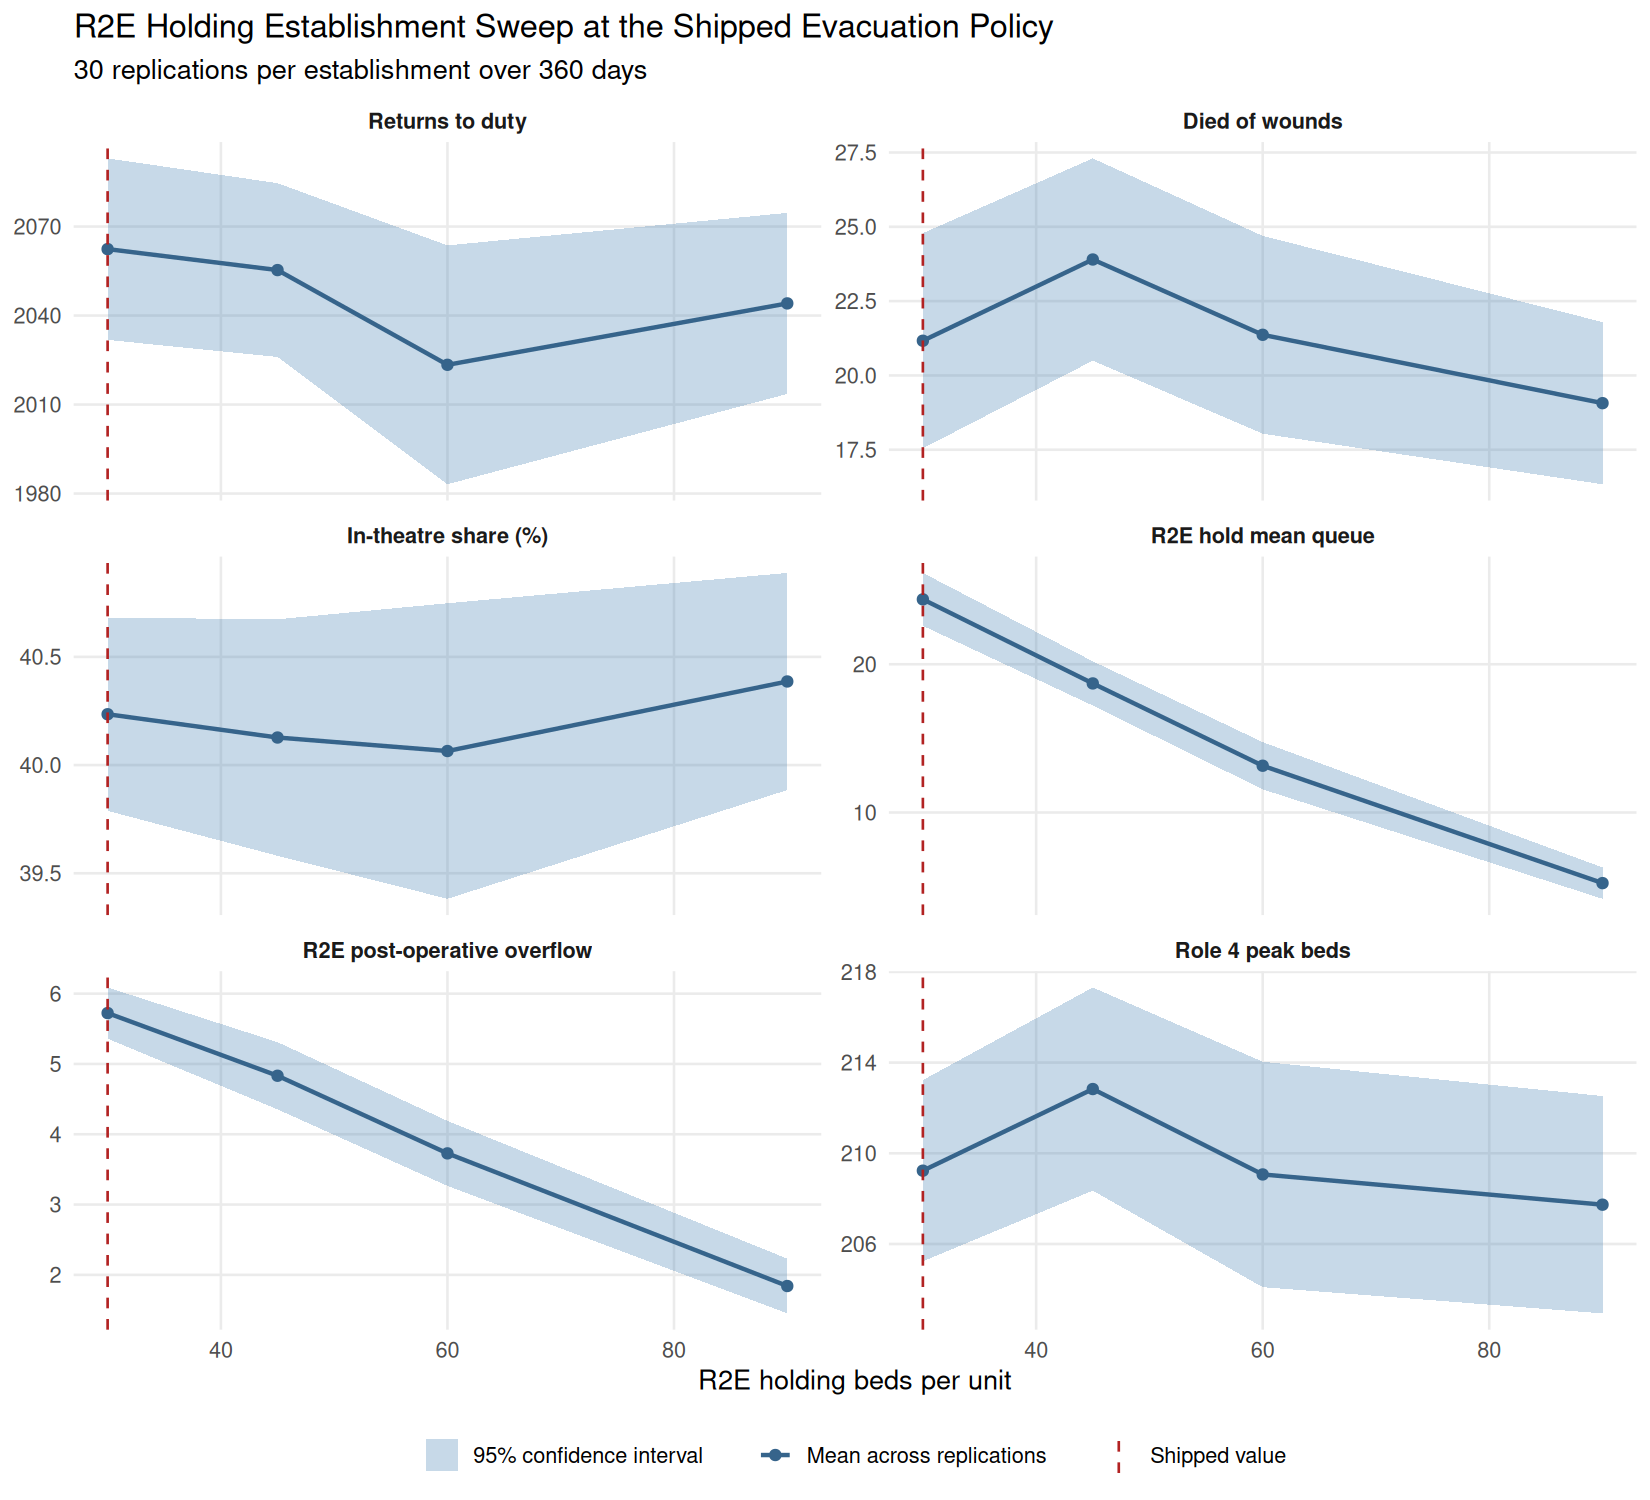
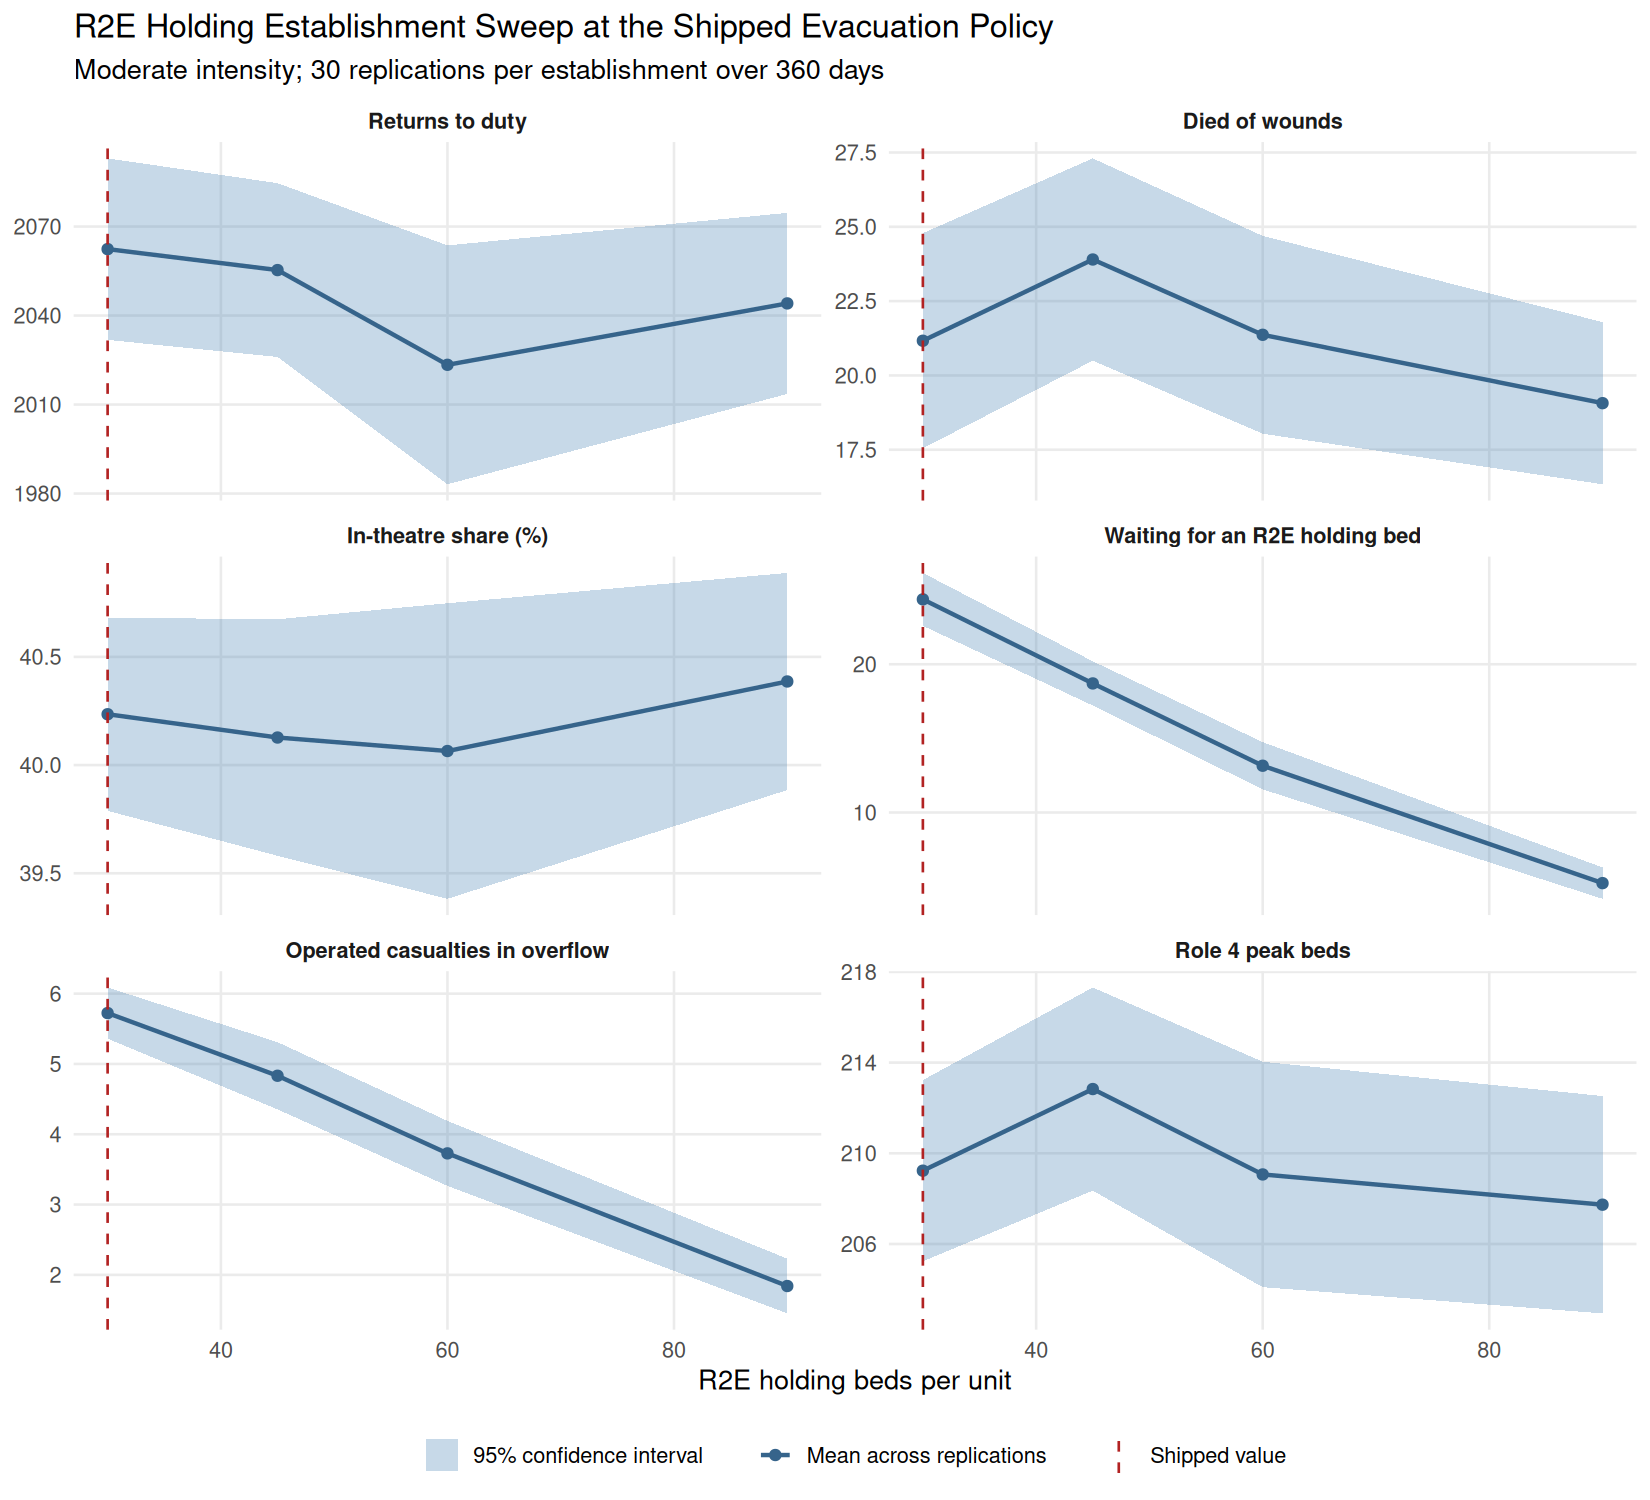
feat(issue-621): Role 4 load figure by airlift option; plain policy panel labels
role4_load.png stacks Role 4 bed-days by day 360 and after it for every
critical-care places arm at both intensities. The policy, establishment and
saturation figures name their intensity and use plain panel labels.

Claude-Session: https://claude.ai/code/session_01CkaegvR5JF22fhwZUpSGkn

Changed region(s): [[0.0309, 0.0307, 0.5255, 0.0613], [0.68, 0.3373, 0.8655, 0.368], [0.1855, 0.6133, 0.3709, 0.644]]

diff --git a/docs/Results.md b/docs/Results.md
@@ -1683,6 +1683,10 @@ The Role 4 load each arm delivers is set out below at both intensities, with the
 
 At high intensity the shipped split and interval held <!-- GEN cell:airlift_places_role4_high|Total, closing 90-day mean beds|36/54, 7 days (shipped)|mean -->219.9<!-- /GEN --> Role 4 beds over the closing 90 days, <!-- GEN cell:airlift_places_role4_high|Intensive care, closing 90-day mean beds|36/54, 7 days (shipped)|mean -->43.7<!-- /GEN --> of them intensive care, and left <!-- GEN cell:airlift_places_role4_high|Casualties awaiting airlift on day 360|36/54, 7 days (shipped)|mean -->2,858.6<!-- /GEN --> casualties awaiting airlift on day 360; Role 4 emptied <!-- GEN cell:airlift_places_role4_high|Days after day 360 until the last bed empties|36/54, 7 days (shipped)|mean -->545.3<!-- /GEN --> days after it. At 45/45 every three days the closing mean was <!-- GEN cell:airlift_places_role4_high|Total, closing 90-day mean beds|45/45, 3 days|mean -->458.7<!-- /GEN --> beds, <!-- GEN cell:airlift_places_role4_high|Intensive care, closing 90-day mean beds|45/45, 3 days|mean -->115.9<!-- /GEN --> of them intensive care, <!-- GEN cell:airlift_places_role4_high|Casualties awaiting airlift on day 360|45/45, 3 days|mean -->62.3<!-- /GEN --> casualties were awaiting airlift on day 360, and Role 4 emptied <!-- GEN cell:airlift_places_role4_high|Days after day 360 until the last bed empties|45/45, 3 days|mean -->46.0<!-- /GEN --> days after it. The bed-days occupied during and after the campaign together were <!-- GEN cell:airlift_places_role4_high|Bed-days in all|36/54, 7 days (shipped)|mean -->151,720<!-- /GEN --> at the shipped split and interval and <!-- GEN cell:airlift_places_role4_high|Bed-days in all|45/45, 3 days|mean -->163,669<!-- /GEN --> at 45/45 every three days.
 
+![Role 4 bed-days per campaign for eight critical-care place and sortie interval options at each intensity, divided into those occupied by day 360 and after it](../images/role4_load.png)
+
+Mean Role 4 bed-days per 360-day campaign for each critical-care place and sortie interval option, at moderate intensity (left) and high intensity (right), divided into the bed-days occupied by day 360 and those occupied after it while the casualties still awaiting airlift are flown out at the option's own interval and split. The whisker is the 95% Student t interval of the total, taken within replication; each intensity has its own scale.
+
 ---
 
 ## Role 4 Bed Demand
